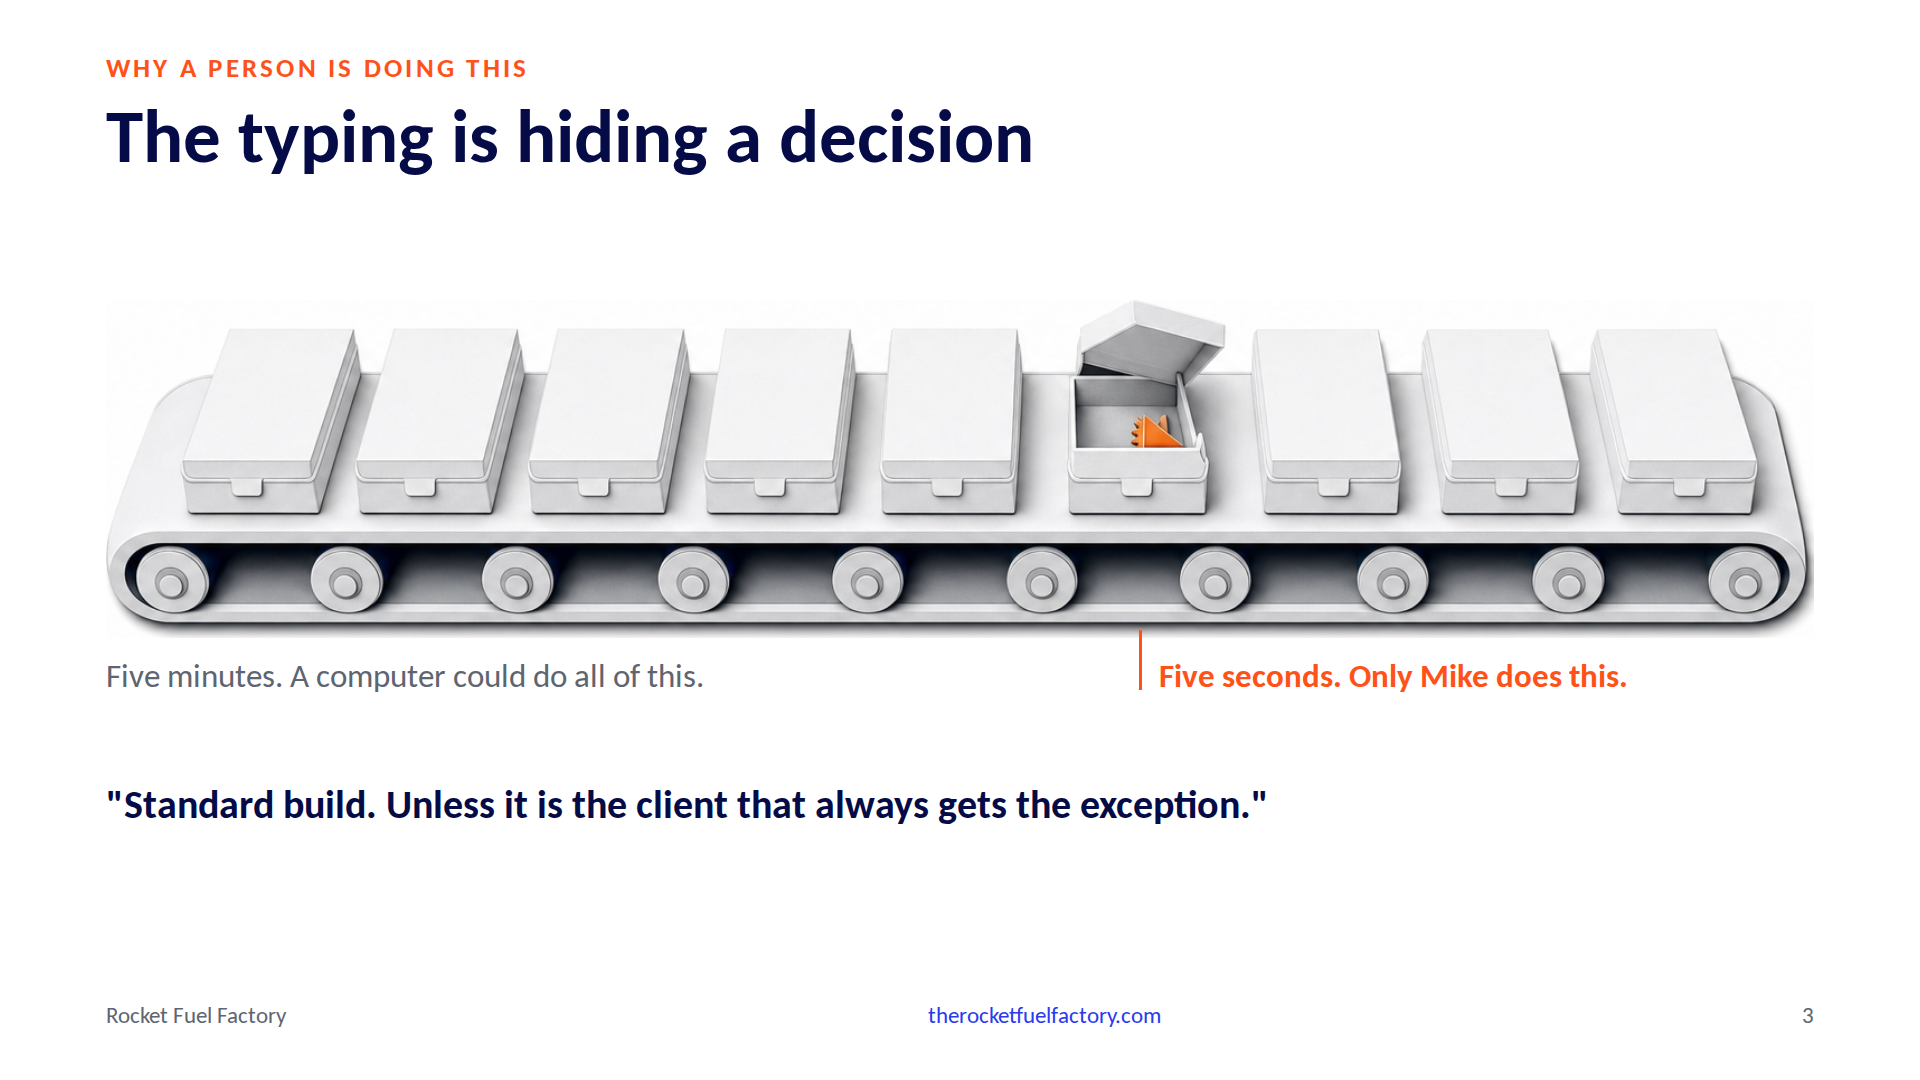
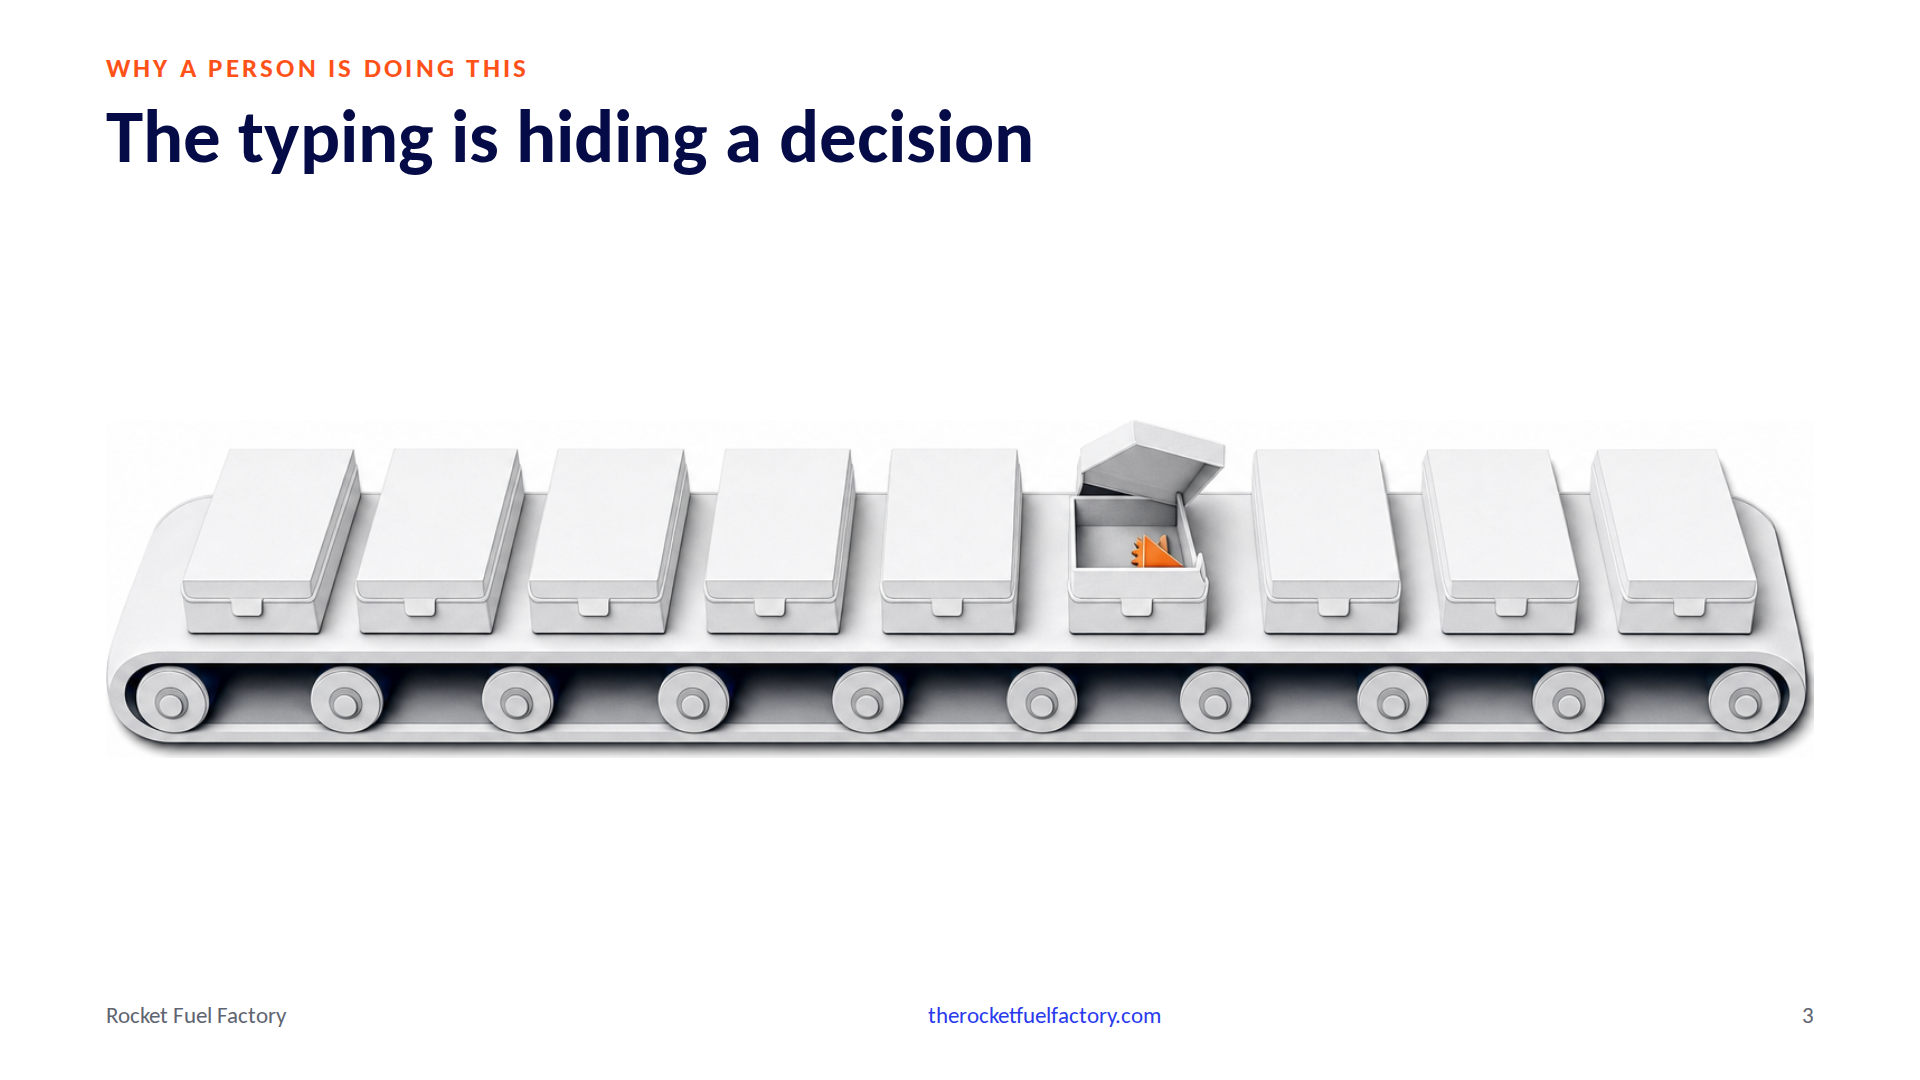
Strip slide 3 to title and image; write HANDOFF.md for the next session

Changed region(s): [[0.0312, 0.275, 0.9688, 0.7028], [0.0625, 0.7333, 0.6562, 0.7639]]

diff --git a/src/components/layouts/HiddenDecisionSlide.jsx b/src/components/layouts/HiddenDecisionSlide.jsx
@@ -1,21 +1,15 @@
 import ContentFrame from '../chrome/ContentFrame'
 
-// The one illustrated slide in the deck. A generated raster (docs/concepts/
-// conveyor-1.png, trimmed) of a belt of identical gray boxes with one lid
-// open on a small orange part. Two labels under it carry the argument.
+// The one illustrated slide in the deck. Title and image only; Tim says the
+// rest. Image: a belt of identical gray boxes, one lid open on a small orange
+// part (generated, docs/concepts/conveyor-1.png, trimmed). If this still
+// reads as decoration, the fallback is to cut the slide and say the idea on
+// slide 2.
 
 const LEFT = 106
 const WIDTH = 1708
 
-export default function HiddenDecisionSlide({
-  eyebrow,
-  title,
-  image,
-  motionLabel,
-  decisionLabel,
-  decision,
-  slideNumber,
-}) {
+export default function HiddenDecisionSlide({ eyebrow, title, image, slideNumber }) {
   return (
     <ContentFrame eyebrow={eyebrow} title={title} accent="orange" slideNumber={slideNumber}>
       <img
@@ -23,25 +17,8 @@ export default function HiddenDecisionSlide({
         alt=""
         draggable={false}
         className="absolute select-none"
-        style={{ left: LEFT, top: 300, width: WIDTH }}
+        style={{ left: LEFT, top: 420, width: WIDTH }}
       />
-      {/* the open box sits about 57% across the trimmed image; hang its label there */}
-      <div className="absolute" style={{ left: LEFT + WIDTH * 0.605, top: 630, width: 3, height: 60, background: '#FF5219' }} />
-      <p
-        className="absolute text-[33px] font-bold text-rff-orange"
-        style={{ left: LEFT + WIDTH * 0.605 + 20, top: 652, width: 640 }}
-      >
-        {decisionLabel}
-      </p>
-      <p className="absolute text-[33px] text-rff-muted" style={{ left: LEFT, top: 652, width: 800 }}>
-        {motionLabel}
-      </p>
-      <p
-        className="absolute text-[40px] font-bold leading-tight text-rff-navy"
-        style={{ left: LEFT, top: 780, width: WIDTH }}
-      >
-        {decision}
-      </p>
     </ContentFrame>
   )
 }

diff --git a/src/components/slides/003-TheTypingIsHidingADecision.jsx b/src/components/slides/003-TheTypingIsHidingADecision.jsx
@@ -1,7 +1,8 @@
 import HiddenDecisionSlide from '../layouts/HiddenDecisionSlide'
 
 // The insight the rest of the deck assumes: every screen-to-screen step is
-// motion fused to a small judgment. The judgment is why a person does the motion.
+// motion fused to a small judgment, and the judgment is why a person does the
+// motion. Spoken, not captioned. See notes.
 export default function TheTypingIsHidingADecision({ slideNumber }) {
   return (
     <HiddenDecisionSlide
@@ -9,9 +10,6 @@ export default function TheTypingIsHidingADecision({ slideNumber }) {
       title="The typing is hiding a decision"
       slideNumber={slideNumber}
       image="/illustrations/hidden-decision-trim.png"
-      motionLabel="Five minutes. A computer could do all of this."
-      decisionLabel="Five seconds. Only Mike does this."
-      decision='"Standard build. Unless it is the client that always gets the exception."'
     />
   )
 }

diff --git a/docs/HANDOFF.md b/docs/HANDOFF.md
@@ -1,0 +1,73 @@
+# Handoff: state of the deck as of 12 September 2026, late afternoon
+
+Read this, then docs/OUTLINE.md, then src/data/notes.js, then look at
+docs/screenshots/01.png through 21.png. That is the whole state.
+
+## What this is
+
+Web deck (Vite, React 19, Tailwind 4) for Tim Fournet's 30 minute talk
+"Doing More Without Adding Bodies" at Global Sync Meetup NYC, Thursday
+17 September 2026, 1:45pm. Room: up to 100 MSP business owners. Organizer
+(Rocket Fuel Factory) bans product pitches. Tim works at Rewst. Brand is the
+RFF template; rules in AGENTS.md. Dev server: `npm run dev` on :1745.
+`npm test`, `npm run build`, `npm run pdf`, `npm run screenshots` all pass.
+
+## The argument, in Tim's words
+
+Computers were built to do the work; we became the automatons. We abdicate
+instead of delegate: we hand over the work and the definition of done, our
+best tech fills in the blanks, so we never learn the brief was vague. AI made
+the habit visible because it has no context and answers in eight seconds.
+Aharon's first law of automation (Aharon Chernin, Rewst): you can't automate a
+process that doesn't exist, and "exists" means said out loud. Most MSPs
+automate the wrong things (the customer away). Automate the automaton work
+instead, yours first, then your customers'. That is the more.
+
+## Slides (21)
+
+1 cover, 2 automatons (pull statement), 3 the typing is hiding a decision
+(illustrated, see below), 4 abdicate vs delegate, 5 the demo never had a
+client, 6 to 10 the mirror demo, 11 Aharon's law, 12 the list was followed
+and the process still didn't exist (Mike, Adobe seats), 13 most MSPs automate
+the wrong things, 14 six delivery processes, 15 divider where AI belongs,
+16 deterministic vs probabilistic, 17 guardrail sandwich, 18 the honest limit,
+19 the more, 20 one action (Table 3), 21 presenter.
+
+## The demo (slides 6 to 10) is real and verified
+
+One line above a pasted PSA ticket, pre-generated with Claude Sonnet, no
+tools, first run kept, then replayed 3x. The model disclosed the ticket's
+"flagged in Q2, renewal never approved" line to the client in 2 of 3 runs;
+that leak is what slide 7 shows. Slide 8 is the model asked how Tim should
+have asked; its own line "I put it in. That's a 50/50 guess I shouldn't have
+made silently" is the punchline. Slide 9 is the rewritten brief in prose
+with the judgment calls highlighted; slide 10 the forwardable email.
+Everything verbatim in docs/demo/ with README and replay counts. Do not
+regenerate without reason; if you do, first run stays.
+
+## What is unresolved
+
+Slide 3. Tim's last words on it: "reads like slop." The idea is his and it
+is the hinge of the talk: every screen-to-screen step is five minutes of
+motion fused to five seconds of judgment ("standard build, unless it is the
+client that always gets the exception"), and the judgment is why a person is
+still doing the motion. The previous session put a generated 3D conveyor
+image on it with two captions and an invented quote. The captions and quote
+have been stripped; the image remains, title only. Twelve generated
+candidates are in docs/concepts/ with prompts. Options on the table: keep
+image and title only; replace with the plain SVG belt (git history,
+commit 860d38c^ has it); cut the slide and say the idea on slide 2. Decide
+by arguing with Tim, not by polishing.
+
+Other open items: headshot (none, card renders without one); GitHub repo
+not created, nothing pushed; joint from slide 14 to the divider at 15 has a
+placeholder bridge in the notes; Tim runs fast when nervous, SLOW slides
+are marked in notes.
+
+## How Tim works
+
+Plain English. Opinions he will defend, not diagnoses. He corrects fast and
+expects you to push back when he is wrong. "No notes" means silence. One
+question at a time. He asked for structure and style before content, then
+content in his voice. He noticed quality drop when the assistant started
+executing suggestions one at a time instead of holding the whole talk.
